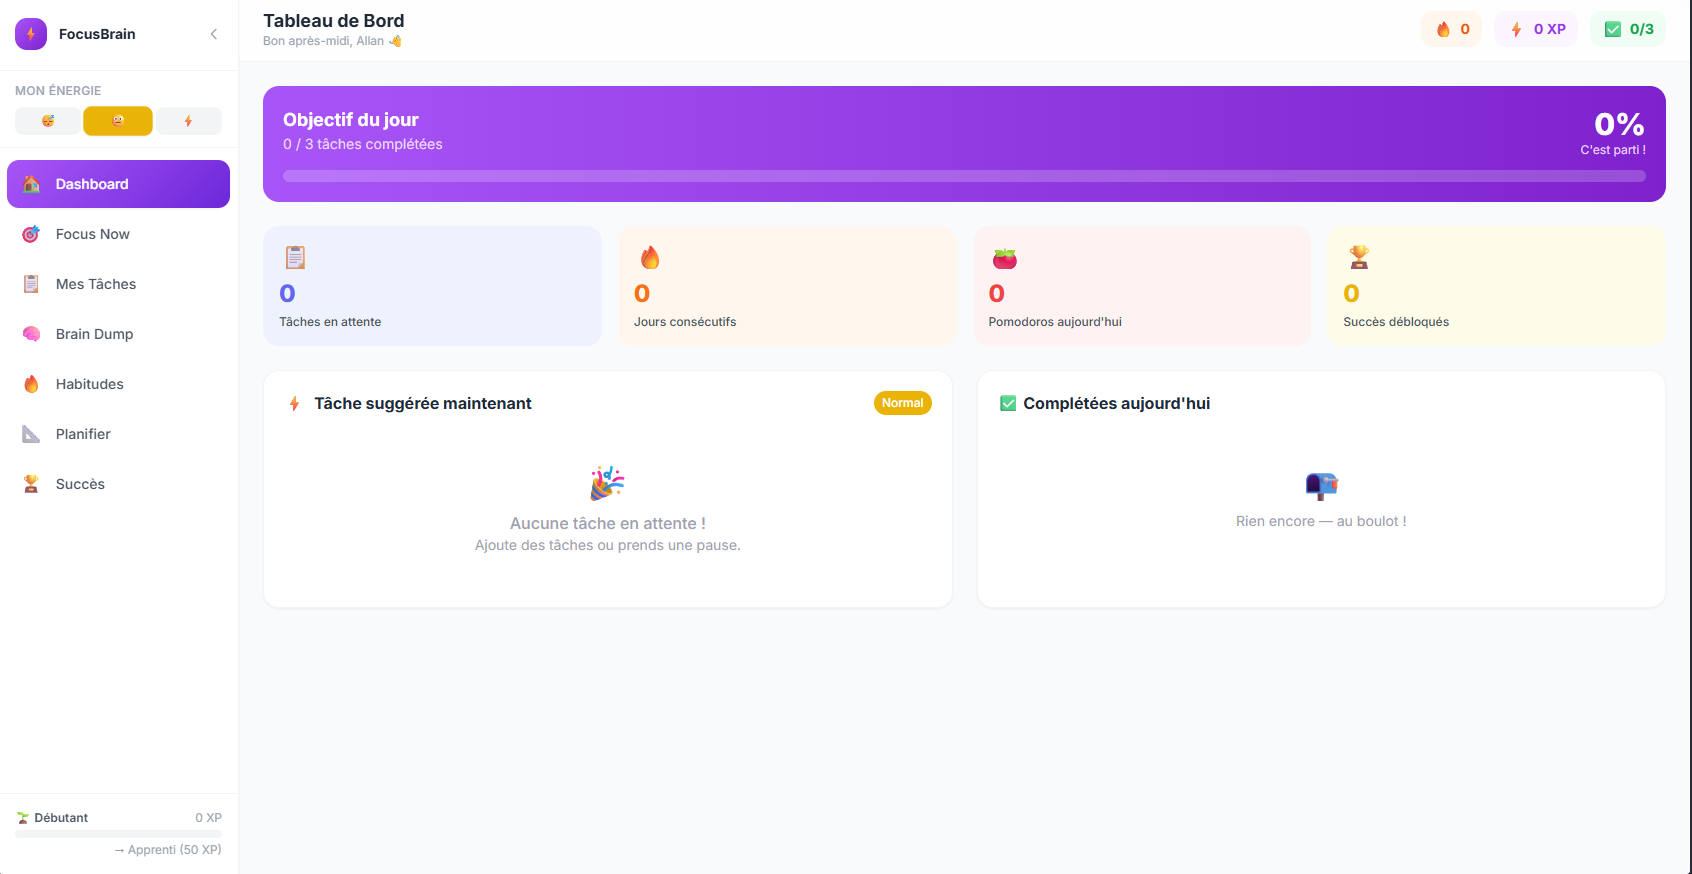
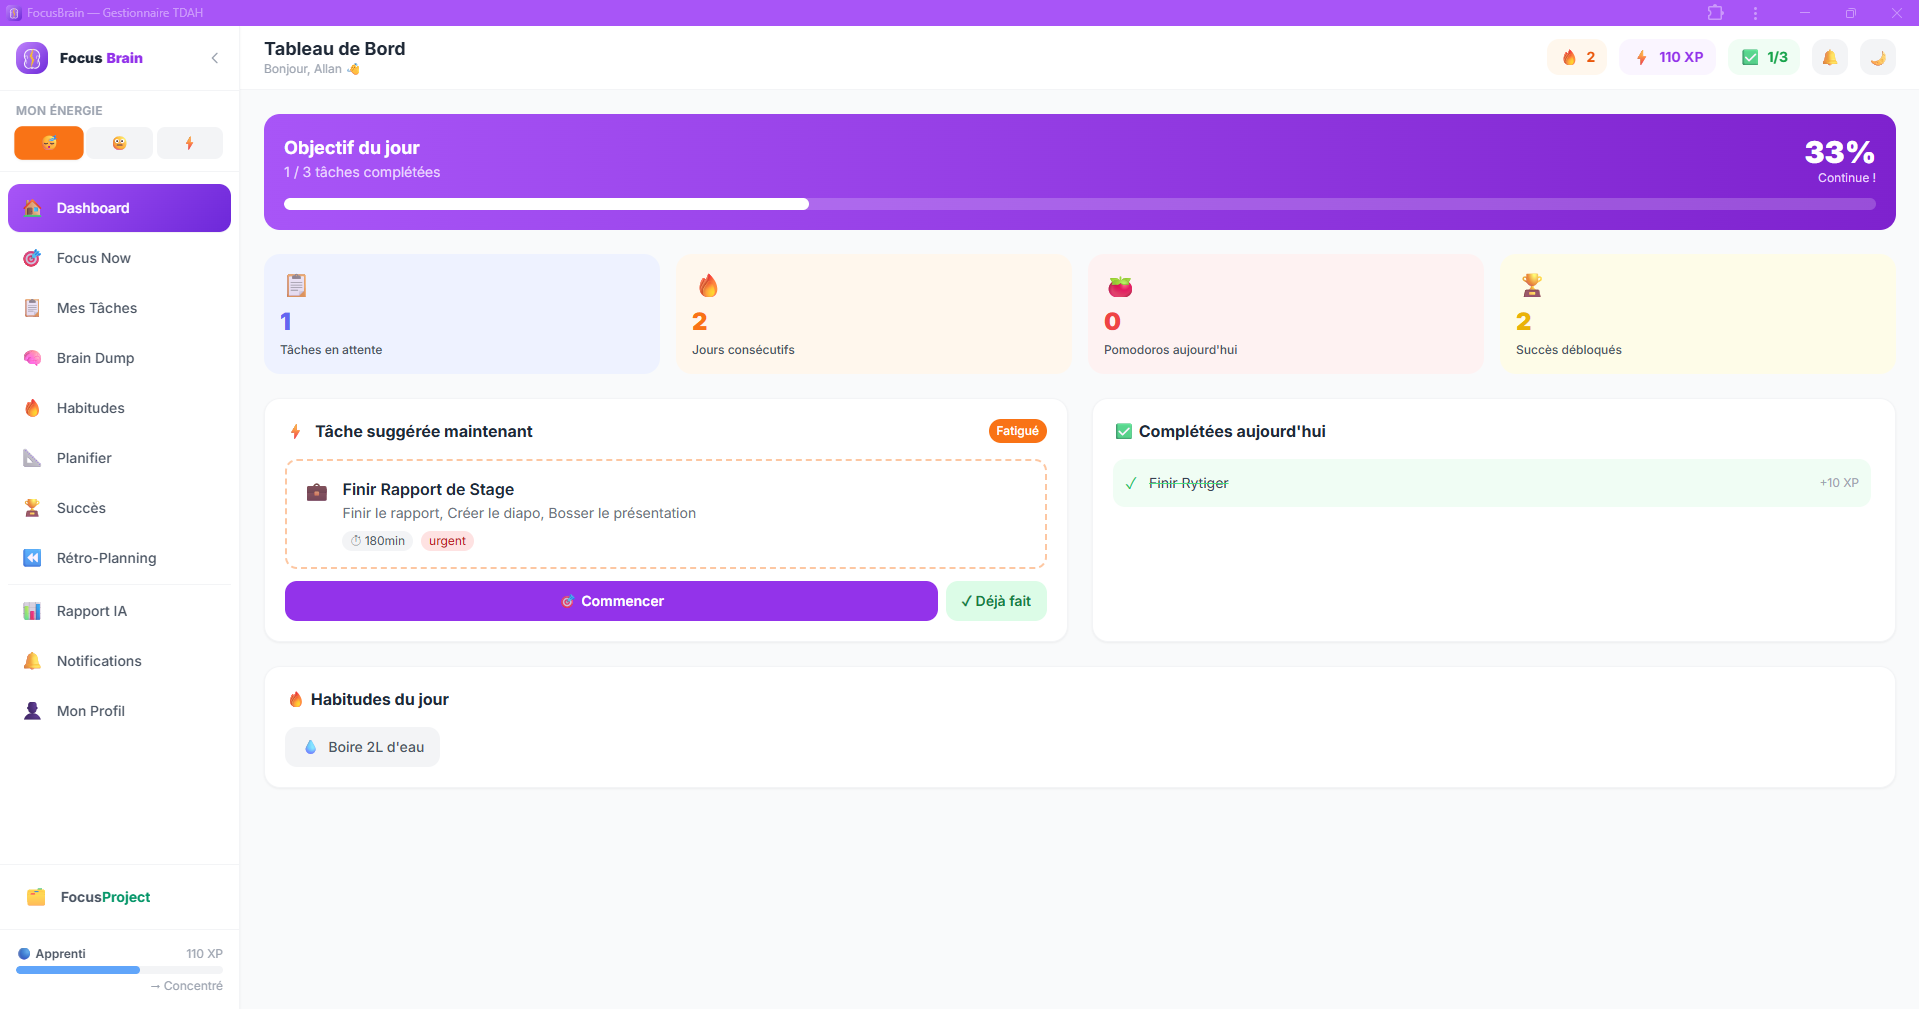
Refactor code structure for improved readability and maintainability

diff --git a/docs/index.html b/docs/index.html
@@ -246,7 +246,72 @@
                 <button class="filter-btn" data-filter="vue">Vue.js</button>
                 <button class="filter-btn" data-filter="game">Game</button>
                 <button class="filter-btn" data-filter="pwa">PWA</button>
+                <button class="filter-btn" data-filter="tdah">TDAH</button>
                 <button class="filter-btn" data-filter="vanilla">Vanilla JS</button>
+            </div>
+
+            <!-- Focus Brain — Spotlight Featured -->
+            <div class="focus-spotlight glass-panel reveal-fade">
+                <div class="focus-spotlight-chip">
+                    <div class="bento-status-dot"></div>
+                    <span>Nouveau Projet</span>
+                </div>
+                <div class="project-header-block">
+                    <span class="section-label mono-text" style="color: var(--cyan-500);">En Vedette // 05</span>
+                    <h2 class="cyan-gradient">FocusBrain 🧠⚡</h2>
+                    <p class="project-tagline cyan">Suite de Productivité TDAH — PWA Vue.js</p>
+                    <p>Bien plus qu'un simple gestionnaire de tâches — une suite de productivité complète et gamifiée, pensée pour les cerveaux TDAH. Brain Dump instantané, timers Focus Pomodoro adaptatifs, gestion de projets avec tableur, éditeur UML et chat intégré, habits tracker et rapports hebdomadaires. Tout ce dont un cerveau TDAH a besoin, en une seule PWA installable.</p>
+                </div>
+                <div class="project-content">
+                    <div class="carousel-wrapper carousel-focusbrain">
+                        <div class="simple-carousel" id="focusCarousel">
+                            <div class="carousel-track">
+                                <div class="carousel-slide active"><img src="./assets/imgs/imgs_carousel/Focus%20Brain/focus_brain_acceuil1.png" alt="FocusBrain — Accueil"></div>
+                                <div class="carousel-slide"><img src="./assets/imgs/imgs_carousel/Focus%20Brain/focus_brain_acceuil2.png" alt="FocusBrain — Accueil 2"></div>
+                                <div class="carousel-slide"><img src="./assets/imgs/imgs_carousel/Focus%20Brain/focus_brain1.png" alt="FocusBrain — Vue 1"></div>
+                                <div class="carousel-slide"><img src="./assets/imgs/imgs_carousel/Focus%20Brain/focus_brain2.png" alt="FocusBrain — Vue 2"></div>
+                                <div class="carousel-slide"><img src="./assets/imgs/imgs_carousel/Focus%20Brain/focus_brain3.png" alt="FocusBrain — Vue 3"></div>
+                                <div class="carousel-slide"><img src="./assets/imgs/imgs_carousel/Focus%20Brain/focus_brain4.png" alt="FocusBrain — Vue 4"></div>
+                                <div class="carousel-slide"><img src="./assets/imgs/imgs_carousel/Focus%20Brain/focus_brain5.png" alt="FocusBrain — Vue 5"></div>
+                                <div class="carousel-slide"><img src="./assets/imgs/imgs_carousel/Focus%20Brain/focus_brain6.png" alt="FocusBrain — Vue 6"></div>
+                                <div class="carousel-slide"><img src="./assets/imgs/imgs_carousel/Focus%20Brain/focus_brain7.png" alt="FocusBrain — Vue 7"></div>
+                                <div class="carousel-slide"><img src="./assets/imgs/imgs_carousel/Focus%20Brain/focus_brain8.png" alt="FocusBrain — Vue 8"></div>
+                                <div class="carousel-slide"><img src="./assets/imgs/imgs_carousel/Focus%20Brain/focus_brain9.png" alt="FocusBrain — Vue 9"></div>
+                                <div class="carousel-slide"><img src="./assets/imgs/imgs_carousel/Focus%20Brain/focus_brain10.png" alt="FocusBrain — Vue 10"></div>
+                                <div class="carousel-slide"><img src="./assets/imgs/imgs_carousel/Focus%20Brain/focus_brain11.png" alt="FocusBrain — Vue 11"></div>
+                            </div>
+                            <div class="carousel-controls">
+                                <button class="nav-arrow prev" id="focusPrev" aria-label="Précédent"><i data-lucide="chevron-left"></i></button>
+                                <button class="nav-arrow next" id="focusNext" aria-label="Suivant"><i data-lucide="chevron-right"></i></button>
+                            </div>
+                        </div>
+                    </div>
+                    <div class="project-details glass-panel">
+                        <h3>Fonctionnalités Clés</h3>
+                        <ul class="spec-list">
+                            <li>
+                                <i data-lucide="brain" class="text-cyan"></i>
+                                <div class="spec-text"><strong>Brain Dump & Focus Pomodoro</strong><span>Capture instantanée des pensées et timers adaptatifs. Ne jamais perdre une idée, rester concentré sur l'essentiel.</span></div>
+                            </li>
+                            <li>
+                                <i data-lucide="layout-dashboard" class="text-cyan"></i>
+                                <div class="spec-text"><strong>Suite Projet Complète</strong><span>Dashboard, tâches, calendrier, chat, docs, tableur et éditeur UML — un écosystème entier dans une PWA.</span></div>
+                            </li>
+                            <li>
+                                <i data-lucide="repeat-2" class="text-cyan"></i>
+                                <div class="spec-text"><strong>Habits & Rétro-Planning</strong><span>Suivi d'habitudes quotidiennes, rapports hebdomadaires et rétro-planning pour garder le cap.</span></div>
+                            </li>
+                            <li>
+                                <i data-lucide="zap" class="text-cyan"></i>
+                                <div class="spec-text"><strong>PWA Gamifiée & Offline</strong><span>Installation locale, mode hors connexion et système de récompenses pour soutenir la motivation au quotidien.</span></div>
+                            </li>
+                        </ul>
+                        <div class="focus-spotlight-btns">
+                            <a href="./projects/focus-brain.html" class="btn-project cyan">Case Study <i data-lucide="arrow-right"></i></a>
+                            <a href="https://allanvitu.github.io/GestionnaireTDAH/#/" target="_blank" rel="noopener noreferrer" class="btn-project cyan">Ouvrir FocusBrain <i data-lucide="external-link"></i></a>
+                        </div>
+                    </div>
+                </div>
             </div>
 
             <!-- Grid -->
@@ -276,6 +341,30 @@
                     </div>
                 </a>
 
+                <!-- Focus Brain — Featured -->
+                <a href="./projects/focus-brain.html" class="project-card project-card--featured glass-panel" data-tags="vue,pwa,tdah">
+                    <div class="project-card-thumb">
+                        <img src="./assets/imgs/imgs_carousel/Focus%20Brain/focus_brain_acceuil2.png" alt="FocusBrain" loading="lazy">
+                        <div class="project-card-overlay">
+                            <span class="card-cta-label">Voir le projet <i data-lucide="arrow-right"></i></span>
+                        </div>
+                        <span class="project-card-badge badge-new">Nouveau</span>
+                    </div>
+                    <div class="project-card-body">
+                        <span class="project-card-num mono-text" style="color: var(--cyan-500);">02</span>
+                        <h3>FocusBrain 🧠⚡</h3>
+                        <p class="project-card-desc">Suite de productivité TDAH complète — Brain Dump, Focus Pomodoro, gestion de projets intégrée (tableur, UML, chat), habits tracker et gamification.</p>
+                        <div class="project-card-footer">
+                            <div class="project-card-tags">
+                                <span class="tag neon-tag" style="border-color: rgba(6,182,212,0.3); color: var(--cyan-500);">Vue.js</span>
+                                <span class="tag neon-tag" style="border-color: rgba(6,182,212,0.3); color: var(--cyan-500);">PWA</span>
+                                <span class="tag neon-tag" style="border-color: rgba(6,182,212,0.3); color: var(--cyan-500);">TDAH</span>
+                            </div>
+                            <div class="project-card-arrow"><i data-lucide="arrow-right"></i></div>
+                        </div>
+                    </div>
+                </a>
+
                 <!-- Rytiger RPG -->
                 <a href="./projects/rytiger.html" class="project-card glass-panel" data-tags="vue,game,pwa">
                     <div class="project-card-thumb">
@@ -286,7 +375,7 @@
                         <span class="project-card-badge badge-game">RPG</span>
                     </div>
                     <div class="project-card-body">
-                        <span class="project-card-num mono-text" style="color: var(--gold-500);">02</span>
+                        <span class="project-card-num mono-text" style="color: var(--gold-500);">03</span>
                         <h3>Rytiger RPG 🐯</h3>
                         <p class="project-card-desc">RPG Dark Fantasy — système ATB, forge de fusion et Tour de l'Infini.</p>
                         <div class="project-card-footer">
@@ -310,7 +399,7 @@
                         <span class="project-card-badge badge-pwa">PWA</span>
                     </div>
                     <div class="project-card-body">
-                        <span class="project-card-num mono-text" style="color: var(--emerald-500);">03</span>
+                        <span class="project-card-num mono-text" style="color: var(--emerald-500);">04</span>
                         <h3>RégionDex 📱</h3>
                         <p class="project-card-desc">Pokédex PWA — UI Bento Box, multi-API Pokémon et cache optimisé.</p>
                         <div class="project-card-footer">
@@ -334,7 +423,7 @@
                         <span class="project-card-badge badge-vanilla">Arcade</span>
                     </div>
                     <div class="project-card-body">
-                        <span class="project-card-num mono-text" style="color: #22c55e;">04</span>
+                        <span class="project-card-num mono-text" style="color: #22c55e;">05</span>
                         <h3>Super Snake 🐍</h3>
                         <p class="project-card-desc">Snake arcade moderne — Gacha System, multi-modes et skins déblocables.</p>
                         <div class="project-card-footer">
@@ -342,30 +431,6 @@
                                 <span class="tag">Vanilla JS</span>
                                 <span class="tag">Game</span>
                                 <span class="tag">Arcade</span>
-                            </div>
-                            <div class="project-card-arrow"><i data-lucide="arrow-right"></i></div>
-                        </div>
-                    </div>
-                </a>
-
-                <!-- Focus Brain -->
-                <a href="./projects/focus-brain.html" class="project-card glass-panel" data-tags="vue,pwa">
-                    <div class="project-card-thumb">
-                        <img src="./assets/imgs/imgs_carousel/Focus%20Brain/focus_brain_acceuil1.png" alt="Focus Brain" loading="lazy">
-                        <div class="project-card-overlay">
-                            <span class="card-cta-label">Voir le projet <i data-lucide="arrow-right"></i></span>
-                        </div>
-                        <span class="project-card-badge badge-tdah">TDAH</span>
-                    </div>
-                    <div class="project-card-body">
-                        <span class="project-card-num mono-text" style="color: var(--cyan-500);">05</span>
-                        <h3>Focus Brain 🧠</h3>
-                        <p class="project-card-desc">Gestionnaire TDAH PWA — timers Pomodoro, gestion de tâches et interface neuro-adaptée.</p>
-                        <div class="project-card-footer">
-                            <div class="project-card-tags">
-                                <span class="tag">Vue.js</span>
-                                <span class="tag">PWA</span>
-                                <span class="tag">TDAH</span>
                             </div>
                             <div class="project-card-arrow"><i data-lucide="arrow-right"></i></div>
                         </div>

diff --git a/docs/css/projects.css b/docs/css/projects.css
@@ -350,6 +350,61 @@
 }
 
 /* =============================================
+   FOCUS BRAIN SPOTLIGHT
+   ============================================= */
+.focus-spotlight {
+    margin-bottom: 3rem;
+    border-color: rgba(6, 182, 212, 0.3) !important;
+    box-shadow: 0 4px 40px rgba(6, 182, 212, 0.07), 0 0 0 1px rgba(6, 182, 212, 0.08) !important;
+    background: rgba(6, 182, 212, 0.015) !important;
+    padding: 2.5rem;
+}
+
+.focus-spotlight-chip {
+    display: inline-flex;
+    align-items: center;
+    gap: 0.5rem;
+    padding: 0.28rem 0.9rem;
+    background: rgba(6, 182, 212, 0.08);
+    border: 1px solid rgba(6, 182, 212, 0.28);
+    border-radius: 20px;
+    margin-bottom: 1.5rem;
+}
+
+.focus-spotlight-chip span {
+    font-size: 0.72rem;
+    font-weight: 700;
+    letter-spacing: 0.1em;
+    text-transform: uppercase;
+    color: var(--cyan-500);
+}
+
+.focus-spotlight-chip .bento-status-dot {
+    width: 7px;
+    height: 7px;
+    margin: 0;
+    flex-shrink: 0;
+    background: var(--cyan-500);
+    box-shadow: 0 0 8px var(--cyan-500);
+}
+
+.focus-spotlight .project-header-block {
+    max-width: 100%;
+    margin-bottom: 2rem;
+}
+
+.focus-spotlight-btns {
+    display: flex;
+    gap: 0.8rem;
+    flex-wrap: wrap;
+    justify-content: center;
+    margin-top: 0.5rem;
+}
+
+/* Badge New */
+.badge-new { background: var(--cyan-500); color: #fff; }
+
+/* =============================================
    RESPONSIVE
    ============================================= */
 @media (max-width: 860px) {

diff --git a/docs/projects/focus-brain.html b/docs/projects/focus-brain.html
@@ -89,22 +89,27 @@
         <div class="project-showcase reveal-fade">
             <div class="project-header-block">
                 <span class="section-label mono-text" style="color: var(--cyan-500);">Case Study // 05</span>
-                <h2 class="cyan-gradient">Focus Brain 🧠⚡</h2>
-                <p class="project-tagline cyan">Application de Gestion du TDAH — PWA Vue.js</p>
-                <p>Une application web progressive conçue pour accompagner les personnes atteintes de TDAH dans leur quotidien. Gestion des tâches, timers de concentration Pomodoro et outils de structuration cognitive dans une interface claire, accessible et épurée.</p>
+                <h2 class="cyan-gradient">FocusBrain 🧠⚡</h2>
+                <p class="project-tagline cyan">Suite de Productivité TDAH — PWA Vue.js</p>
+                <p>Bien plus qu'un gestionnaire de tâches — une suite de productivité complète et gamifiée, conçue spécifiquement pour les cerveaux TDAH. FocusBrain combine Brain Dump instantané, timers Focus Pomodoro adaptatifs, un vrai gestionnaire de projets (tableur, éditeur UML, chat, calendrier, docs), habits tracker, rapports hebdomadaires et rétro-planning. Tout ce dont un cerveau atypique a besoin pour rester structuré, motivé et productif.</p>
             </div>
             <div class="project-content">
                 <div class="carousel-wrapper carousel-focusbrain">
                     <div class="simple-carousel" id="focusCarousel">
                         <div class="carousel-track">
-                            <div class="carousel-slide active"><img src="../assets/imgs/imgs_carousel/Focus%20Brain/focus_brain_acceuil1.png" alt="Focus Brain — Accueil"></div>
-                            <div class="carousel-slide"><img src="../assets/imgs/imgs_carousel/Focus%20Brain/focus_brain_acceuil2.png" alt="Focus Brain — Accueil 2"></div>
-                            <div class="carousel-slide"><img src="../assets/imgs/imgs_carousel/Focus%20Brain/focus_brain1.png" alt="Focus Brain — Vue 1"></div>
-                            <div class="carousel-slide"><img src="../assets/imgs/imgs_carousel/Focus%20Brain/focus_brain2.png" alt="Focus Brain — Vue 2"></div>
-                            <div class="carousel-slide"><img src="../assets/imgs/imgs_carousel/Focus%20Brain/focus_brain3.png" alt="Focus Brain — Vue 3"></div>
-                            <div class="carousel-slide"><img src="../assets/imgs/imgs_carousel/Focus%20Brain/focus_brain4.png" alt="Focus Brain — Vue 4"></div>
-                            <div class="carousel-slide"><img src="../assets/imgs/imgs_carousel/Focus%20Brain/focus_brain5.png" alt="Focus Brain — Vue 5"></div>
-                            <div class="carousel-slide"><img src="../assets/imgs/imgs_carousel/Focus%20Brain/focus_brain6.png" alt="Focus Brain — Vue 6"></div>
+                            <div class="carousel-slide active"><img src="../assets/imgs/imgs_carousel/Focus%20Brain/focus_brain_acceuil1.png" alt="FocusBrain — Accueil"></div>
+                            <div class="carousel-slide"><img src="../assets/imgs/imgs_carousel/Focus%20Brain/focus_brain_acceuil2.png" alt="FocusBrain — Accueil 2"></div>
+                            <div class="carousel-slide"><img src="../assets/imgs/imgs_carousel/Focus%20Brain/focus_brain1.png" alt="FocusBrain — Dashboard"></div>
+                            <div class="carousel-slide"><img src="../assets/imgs/imgs_carousel/Focus%20Brain/focus_brain2.png" alt="FocusBrain — Tâches"></div>
+                            <div class="carousel-slide"><img src="../assets/imgs/imgs_carousel/Focus%20Brain/focus_brain3.png" alt="FocusBrain — Focus Mode"></div>
+                            <div class="carousel-slide"><img src="../assets/imgs/imgs_carousel/Focus%20Brain/focus_brain4.png" alt="FocusBrain — Brain Dump"></div>
+                            <div class="carousel-slide"><img src="../assets/imgs/imgs_carousel/Focus%20Brain/focus_brain5.png" alt="FocusBrain — Habits"></div>
+                            <div class="carousel-slide"><img src="../assets/imgs/imgs_carousel/Focus%20Brain/focus_brain6.png" alt="FocusBrain — Projets"></div>
+                            <div class="carousel-slide"><img src="../assets/imgs/imgs_carousel/Focus%20Brain/focus_brain7.png" alt="FocusBrain — Calendrier"></div>
+                            <div class="carousel-slide"><img src="../assets/imgs/imgs_carousel/Focus%20Brain/focus_brain8.png" alt="FocusBrain — Rapport Hebdo"></div>
+                            <div class="carousel-slide"><img src="../assets/imgs/imgs_carousel/Focus%20Brain/focus_brain9.png" alt="FocusBrain — Rétro-Planning"></div>
+                            <div class="carousel-slide"><img src="../assets/imgs/imgs_carousel/Focus%20Brain/focus_brain10.png" alt="FocusBrain — Éditeur"></div>
+                            <div class="carousel-slide"><img src="../assets/imgs/imgs_carousel/Focus%20Brain/focus_brain11.png" alt="FocusBrain — Profil"></div>
                         </div>
                         <div class="carousel-controls">
                             <button class="nav-arrow prev" id="focusPrev" aria-label="Précédent"><i data-lucide="chevron-left"></i></button>
@@ -113,27 +118,27 @@
                     </div>
                 </div>
                 <div class="project-details glass-panel">
-                    <h3>Architecture Technique</h3>
+                    <h3>Architecture & Fonctionnalités</h3>
                     <ul class="spec-list">
                         <li>
                             <i data-lucide="brain" class="text-cyan"></i>
-                            <div class="spec-text"><strong>UX Neuro-Adaptée</strong><span>Interface pensée pour réduire la charge cognitive — hiérarchie visuelle claire, feedback immédiat et navigation intuitive.</span></div>
+                            <div class="spec-text"><strong>Brain Dump & Focus Pomodoro</strong><span>Capture instantanée des pensées et timers Pomodoro adaptatifs pour les sessions de travail intenses. Mode Focus dédié avec suivi de productivité.</span></div>
                         </li>
                         <li>
-                            <i data-lucide="timer" class="text-cyan"></i>
-                            <div class="spec-text"><strong>Timers de Focus</strong><span>Technique Pomodoro intégrée avec sessions personnalisables et suivi de productivité en temps réel.</span></div>
+                            <i data-lucide="layout-dashboard" class="text-cyan"></i>
+                            <div class="spec-text"><strong>Suite Projet Intégrée</strong><span>Dashboard, tâches, calendrier, chat, docs, tableur et éditeur UML — un écosystème complet de gestion de projet dans une seule PWA Vue.js.</span></div>
                         </li>
                         <li>
-                            <i data-lucide="list-checks" class="text-cyan"></i>
-                            <div class="spec-text"><strong>Gestion de Tâches</strong><span>Système de tâches priorisées avec catégorisation et rappels adaptés au rythme TDAH.</span></div>
+                            <i data-lucide="repeat-2" class="text-cyan"></i>
+                            <div class="spec-text"><strong>Habits Tracker & Rétro-Planning</strong><span>Suivi d'habitudes quotidiennes, rapports hebdomadaires automatiques et rétro-planning pour maintenir la progression sur la durée.</span></div>
                         </li>
                         <li>
                             <i data-lucide="zap" class="text-cyan"></i>
-                            <div class="spec-text"><strong>PWA Offline-First</strong><span>Installation locale, cache Service Worker et fonctionnement hors connexion pour une disponibilité maximale.</span></div>
+                            <div class="spec-text"><strong>PWA Gamifiée & Offline-First</strong><span>Installation native, Service Worker, cache offline et système de récompenses gamifié pour soutenir la motivation des cerveaux TDAH.</span></div>
                         </li>
                     </ul>
                     <div class="project-links">
-                        <a href="https://allanvitu.github.io/GestionnaireTDAH/#/" target="_blank" rel="noopener noreferrer" class="btn-project cyan">Ouvrir Focus Brain <i data-lucide="external-link"></i></a>
+                        <a href="https://allanvitu.github.io/GestionnaireTDAH/#/" target="_blank" rel="noopener noreferrer" class="btn-project cyan">Ouvrir FocusBrain <i data-lucide="external-link"></i></a>
                     </div>
                 </div>
             </div>